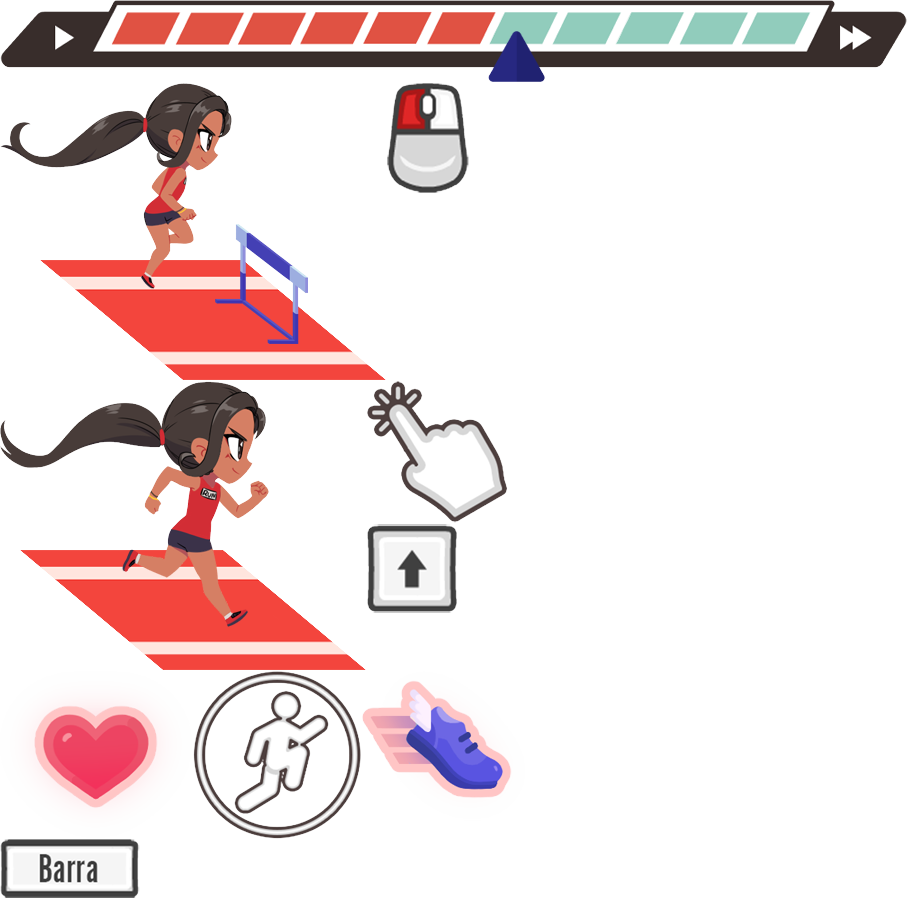
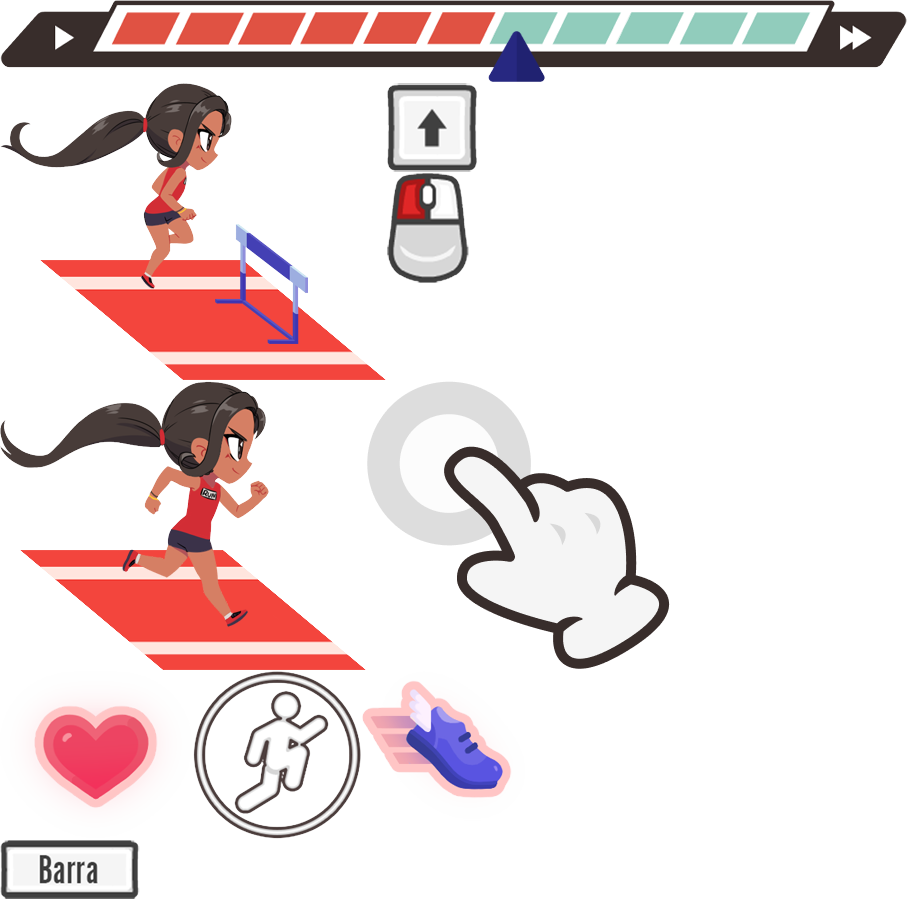
fix tutorial

diff --git a/src/scripts/components/panel.js b/src/scripts/components/panel.js
@@ -89,7 +89,7 @@ export class Panel
 
         let image1 = this.scene.add.image(dim/2-235, 460, 'tutorialUI', 'run.png').setScale(.72);
         let image2 = this.scene.add.image(dim/2-30, 460, 'tutorialUI', 'tap.png').setScale(.72);
-        let image3 = this.scene.add.image(dim/2+130, 460, 'tutorialUI', 'leftclick.png').setScale(.72);
+        let image3 = this.scene.add.image(dim/2+150, 460, 'tutorialUI', 'leftclick.png').setScale(.72);
         let image4 = this.scene.add.image(dim/2+295, 460, 'tutorialUI', 'spacebar.png').setScale(.72);
      
         let text2 = this.scene.add.text(dim/2-20, 650, 'ACELERA PARA QUE TU VELOCIDAD NO CAIGA EN LA ZONA\nROJA DE LA BARRA O TROPEZARÁS Y PERDERÁS\n¡LLEGA TAN LEJOS COMO PUEDAS!', { 
